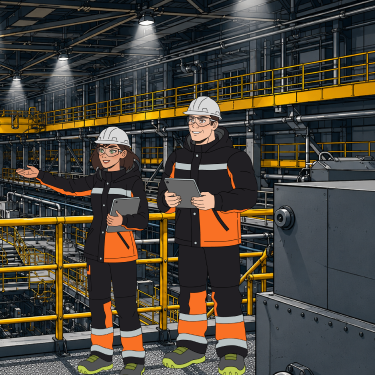
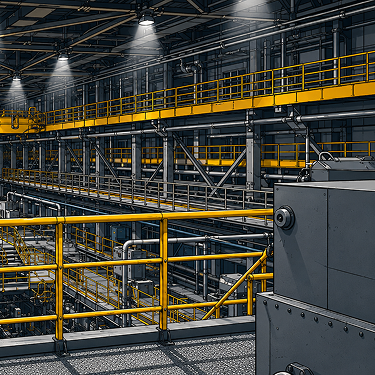
add images

diff --git a/src/content.config.ts b/src/content.config.ts
@@ -15,8 +15,8 @@ const question = defineCollection({
       backgrounds: z.object({
         desktop: image(),
         mobile: image(),
-        charsDesktop: image().optional(),
-        charsMobile: image().optional(),
+        charsDesktop: image(),
+        charsMobile: image(),
       }),
       answers: z.array(
         z.object({
